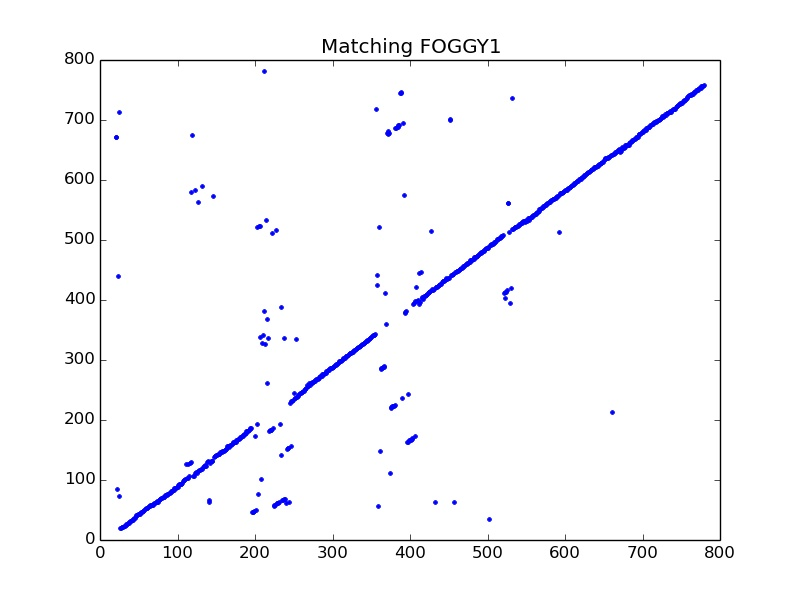
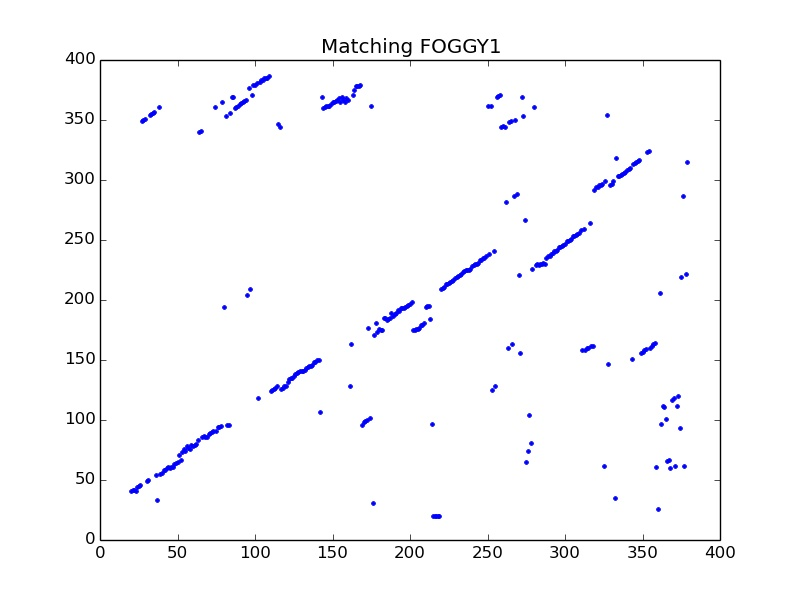
ok

diff --git a/plotDraw_simpleCYC.py b/plotDraw_simpleCYC.py
@@ -11,8 +11,8 @@ from sklearn.metrics import precision_recall_curve
 from parameters import *
 
 method = 'simpleCYC'
-route_dir = ["Route1", "Route2", "Route3"]
-test_dir = ["FOGGY1", "FOGGY2", "RAIN1", "RAIN2",  "SUNNY2"]
+route_dir = ["Route1", "Route2", "Route3", "Route4"]
+test_dir = ["FOGGY1", "FOGGY2", "RAIN1", "RAIN2", "SUNNY1", "SUNNY2"]
 #test_dir = ["JOINT"]
 
 result_dir = os.path.join('results', method)
@@ -34,86 +34,89 @@ if not os.path.exists(match_dir):
 
 args = Param()
 
-for epoch_id in range(10, 21):
+Base_cmp = "SUNNY1"
 
-    Testvector_path = os.path.join(result_dir, str(epoch_id)+'_SUNNY1_vt.npy')
-    train_code = np.load(Testvector_path)
+for epoch_id in range(18, 23):
 
-    for file_id, file_name in enumerate(test_dir):
+    for route_id, route_name in enumerate(route_dir):
+        Testvector_path = os.path.join(result_dir, str(epoch_id)+'_'+route_name+'_'+Base_cmp+'_vt.npy')
+        train_code = np.load(Testvector_path)
 
-        print('Load data epoch:{}, file:{}'.format(epoch_id, file_name)) 
-        Testvector_path = os.path.join(result_dir, str(epoch_id)+'_'+file_name+'_vt.npy')
-        test_code = np.load(Testvector_path)
-        D = Euclidean(train_code, test_code)
-        D_sub = D[100:300, 300:500]
-        print (D.shape)
-        scipy.misc.imsave(os.path.join(matrix_dir, str(epoch_id)+'_'+file_name+'_SUNNY1_matrix.jpg'), D * 255)
-        DD = enhanceContrast(D, 30)
-        DD_sub = DD[100:300, 300:500]
-        scipy.misc.imsave(os.path.join(matrix_dir, str(epoch_id)+'_'+file_name+'_SUNNY1_enhance.jpg'), DD * 255)
+        for file_id, file_name in enumerate(test_dir):
 
+            print('Load data epoch:{}, file:{}'.format(epoch_id, file_name)) 
+            Testvector_path = os.path.join(result_dir, str(epoch_id)+'_'+route_name+'_'+file_name+'_vt.npy')
+            test_code = np.load(Testvector_path)
+            D = Euclidean(train_code, test_code)
+            D_sub = D[100:300, 300:500]
+            print (D.shape)
+            scipy.misc.imsave(os.path.join(matrix_dir, str(epoch_id)+'_'+route_name+'_'+file_name+'_'+Base_cmp+'_matrix.jpg'), D * 255)
+            DD = enhanceContrast(D, 30)
+            DD_sub = DD[100:300, 300:500]
+            scipy.misc.imsave(os.path.join(matrix_dir, str(epoch_id)+'_'+route_name+'_'+file_name+'_'+Base_cmp+'_enhance.jpg'), DD * 255)
 
-        ## Save matching 
-        match = getMatches(DD, 0, args)
-        m = match[:,0]
-        thresh = 0.95
-        matched = match[match[:,1]<thresh, 1]
-        score = np.mean(matched)
-        m[match[:,1] > thresh] = np.nan
-        plt.figure()
-        plt.xlabel('Test data')
-        plt.ylabel('Stored data')
-        plt.text(60, .025, r"score=%4.4f, point=%d" % (score, len(matched)))
-        plt.plot(m,'.') 
-        plt.title('Epoch_'+str(epoch_id)+'_'+file_name)
-        plt.savefig(os.path.join(match_dir, str(epoch_id)+'_'+file_name+'_match.jpg'))
-
-        ## Save sub matrix
-        plt.figure()
-        fig, ax = plt.subplots()
-        ax.imshow(D_sub, cmap=plt.cm.gray, interpolation='nearest')
-        #ax.set_title('Difference Matrix')
-        ax.spines['right'].set_visible(False)
-        ax.spines['top'].set_visible(False)
-        ax.spines['left'].set_visible(False)
-        ax.spines['bottom'].set_visible(False)
-        plt.savefig(os.path.join(matrix_dir, str(epoch_id)+'_'+file_name+'_SUNNY1_sub_matrix.jpg'))
-        
-        ## Save sub enhance
-        plt.figure()
-        fig, ax = plt.subplots()
-        ax.imshow(DD_sub, cmap=plt.cm.gray, interpolation='nearest')
-        #ax.set_title('Enhance Matrix')
-        ax.spines['right'].set_visible(False)
-        ax.spines['top'].set_visible(False)
-        ax.spines['left'].set_visible(False)
-        ax.spines['bottom'].set_visible(False)
-        plt.savefig(os.path.join(matrix_dir, str(epoch_id)+'_'+file_name+'_SUNNY1_sub_enhance.jpg'))
-
-
-        ## Caculate Precision and Recall Curve
-        np.set_printoptions(threshold='nan')
-        match_PR = match[int(args.v_ds/2):int(match.shape[0]-args.v_ds/2), :]
-        match_BS = np.array(range(match_PR.shape[0]))+int(int(args.v_ds/2))
-        match_EE = np.abs(match_PR[:,0] - match_BS)
-        match_PR[match_EE<=args.match_thres, 0] = 1
-        match_PR[match_EE> args.match_thres, 0] = 0
-        match_PR[np.isnan(match_PR)]=0
-        precision, recall, _ = precision_recall_curve(match_PR[:, 0], match_PR[:, 1])
-        PR_data = zip(precision, recall) 
-        PR_path = os.path.join(pr_dir, str(epoch_id)+'_'+file_name+'_PR.json')
-        with open(PR_path, 'w') as data_out:
-            json.dump(PR_data, data_out)
+            
+            ## Save matching 
+            match = getMatches(DD, 0, args)
+            m = match[:,0]
+            thresh = 0.95
+            matched = match[match[:,1]<thresh, 1]
+            score = np.mean(matched)
+            m[match[:,1] > thresh] = np.nan
+            plt.figure()
+            plt.xlabel('Test data')
+            plt.ylabel('Stored data')
+            plt.text(60, .025, r"score=%4.4f, point=%d" % (score, len(matched)))
+            plt.plot(m,'.') 
+            plt.title('Epoch_'+str(epoch_id)+'_'+route_name+'_'+file_name)
+            plt.savefig(os.path.join(match_dir, str(epoch_id)+'_'+route_name+'_'+file_name+'_match.jpg'))
+            
+            '''
+            ## Save sub matrix
+            plt.figure()
+            fig, ax = plt.subplots()
+            ax.imshow(D_sub, cmap=plt.cm.gray, interpolation='nearest')
+            #ax.set_title('Difference Matrix')
+            ax.spines['right'].set_visible(False)
+            ax.spines['top'].set_visible(False)
+            ax.spines['left'].set_visible(False)
+            ax.spines['bottom'].set_visible(False)
+            plt.savefig(os.path.join(matrix_dir, str(epoch_id)+'_'+route_name+'_'+file_name+'_FOGGY1_sub_matrix.jpg'))
+            
+            ## Save sub enhance
+            plt.figure()
+            fig, ax = plt.subplots()
+            ax.imshow(DD_sub, cmap=plt.cm.gray, interpolation='nearest')
+            #ax.set_title('Enhance Matrix')
+            ax.spines['right'].set_visible(False)
+            ax.spines['top'].set_visible(False)
+            ax.spines['left'].set_visible(False)
+            ax.spines['bottom'].set_visible(False)
+            plt.savefig(os.path.join(matrix_dir, str(epoch_id)+'_'+route_name+'_'+file_name+'_FOGGY1_sub_enhance.jpg'))
+            '''
+            
+            ## Caculate Precision and Recall Curve
+            np.set_printoptions(threshold='nan')
+            match_PR = match[int(args.v_ds/2):int(match.shape[0]-args.v_ds/2), :]
+            match_BS = np.array(range(match_PR.shape[0]))+int(int(args.v_ds/2))
+            match_EE = np.abs(match_PR[:,0] - match_BS)
+            match_PR[match_EE<=args.match_thres, 0] = 1
+            match_PR[match_EE> args.match_thres, 0] = 0
+            match_PR[np.isnan(match_PR)]=0
+            precision, recall, _ = precision_recall_curve(match_PR[:, 0], match_PR[:, 1])
+            PR_data = zip(precision, recall) 
+            PR_path = os.path.join(pr_dir, str(epoch_id)+'_'+route_name+'_'+file_name+'_PR.json')
+            with open(PR_path, 'w') as data_out:
+                json.dump(PR_data, data_out)
     
-        plt.figure()
-        plt.xlim(0.0, 1.0)
-        plt.ylim(0.0, 1.0)
-        plt.xlabel('Recall')
-        plt.ylabel('Precision')
-        plt.plot(recall, precision, lw=2, color='navy', label='Precision-Recall curve')
-        plt.title('PR Curve for Epoch_'+str(epoch_id)+'_'+file_name)
-        plt.savefig(os.path.join(pr_dir, str(epoch_id)+'_'+file_name+'_PR.jpg'))
-
+            plt.figure()
+            plt.xlim(0.0, 1.0)
+            plt.ylim(0.0, 1.0)
+            plt.xlabel('Recall')
+            plt.ylabel('Precision')
+            plt.plot(recall, precision, lw=2, color='navy', label='Precision-Recall curve')
+            plt.title('PR Curve for Epoch_'+str(epoch_id)+'_'+route_name+'_'+file_name)
+            plt.savefig(os.path.join(pr_dir, str(epoch_id)+'_'+route_name+'_'+file_name+'_PR.jpg'))
 
 
 

diff --git a/pyseqslam/demo_GTAV.py b/pyseqslam/demo_GTAV.py
@@ -21,7 +21,7 @@ def demo():
     # Nordland spring dataset
     ds = AttributeDict()
     ds.name = 'train'
-    ds.imagePath = '../data/GTAV/SUNNY1'
+    ds.imagePath = '../data/GTAV/Route3/SUNNY1'
     
     ds.prefix=''
     ds.extension='.jpg'
@@ -45,8 +45,8 @@ def demo():
     ds2.imageSkip = 1     # use every n-nth image
     ds2.imageIndices = range(20, 700, ds.imageSkip)    
 
-    test_name = 'SUNNY2'
-    ds2.imagePath = '../data/GTAV/'+test_name
+    test_name = 'FOGGY1'
+    ds2.imagePath = '../data/GTAV/Route3/'+test_name
     ds2.saveFile = '%s-%d-%d-%d' % (ds2.name, ds2.imageIndices[0], ds2.imageSkip, ds2.imageIndices[-1])
     # ds.crop=[5 1 64 32]
     ds2.crop=[]

diff --git a/model_simpleCYC.py b/model_simpleCYC.py
@@ -312,14 +312,14 @@ class Net_simpleCYC(object):
 
     def test(self, args):
 
-        route_dir = ["Route1", "Route2", "Route3"]
+        route_dir = ["Route1", "Route2", "Route3", "Route4"]
         test_dir = ["FOGGY1", "FOGGY2", "RAIN1", "RAIN2", "SUNNY1", "SUNNY2"]
         #test_dir = ['JOINT']
         result_dir = os.path.join(args.result_dir, args.method)
         if not os.path.exists(result_dir):
             os.makedirs(result_dir)
 
-        for test_epoch in range(18, 23):
+        for test_epoch in range(15, 24):
 
             # Initial layer's variables
             self.test_epoch = test_epoch * 50

diff --git a/pyseqslam/seqslam.py b/pyseqslam/seqslam.py
@@ -76,7 +76,7 @@ class SeqSLAM():
         # allocate memory for all the processed images
         data_files  = glob(os.path.join(params.dataset.imagePath, "*.jpg"))
         data_files.sort()
-        data_files = data_files[:800]
+        data_files = data_files[:400]
         n = len(data_files)
         m = params.downsample.size[0]*params.downsample.size[1] 
 
